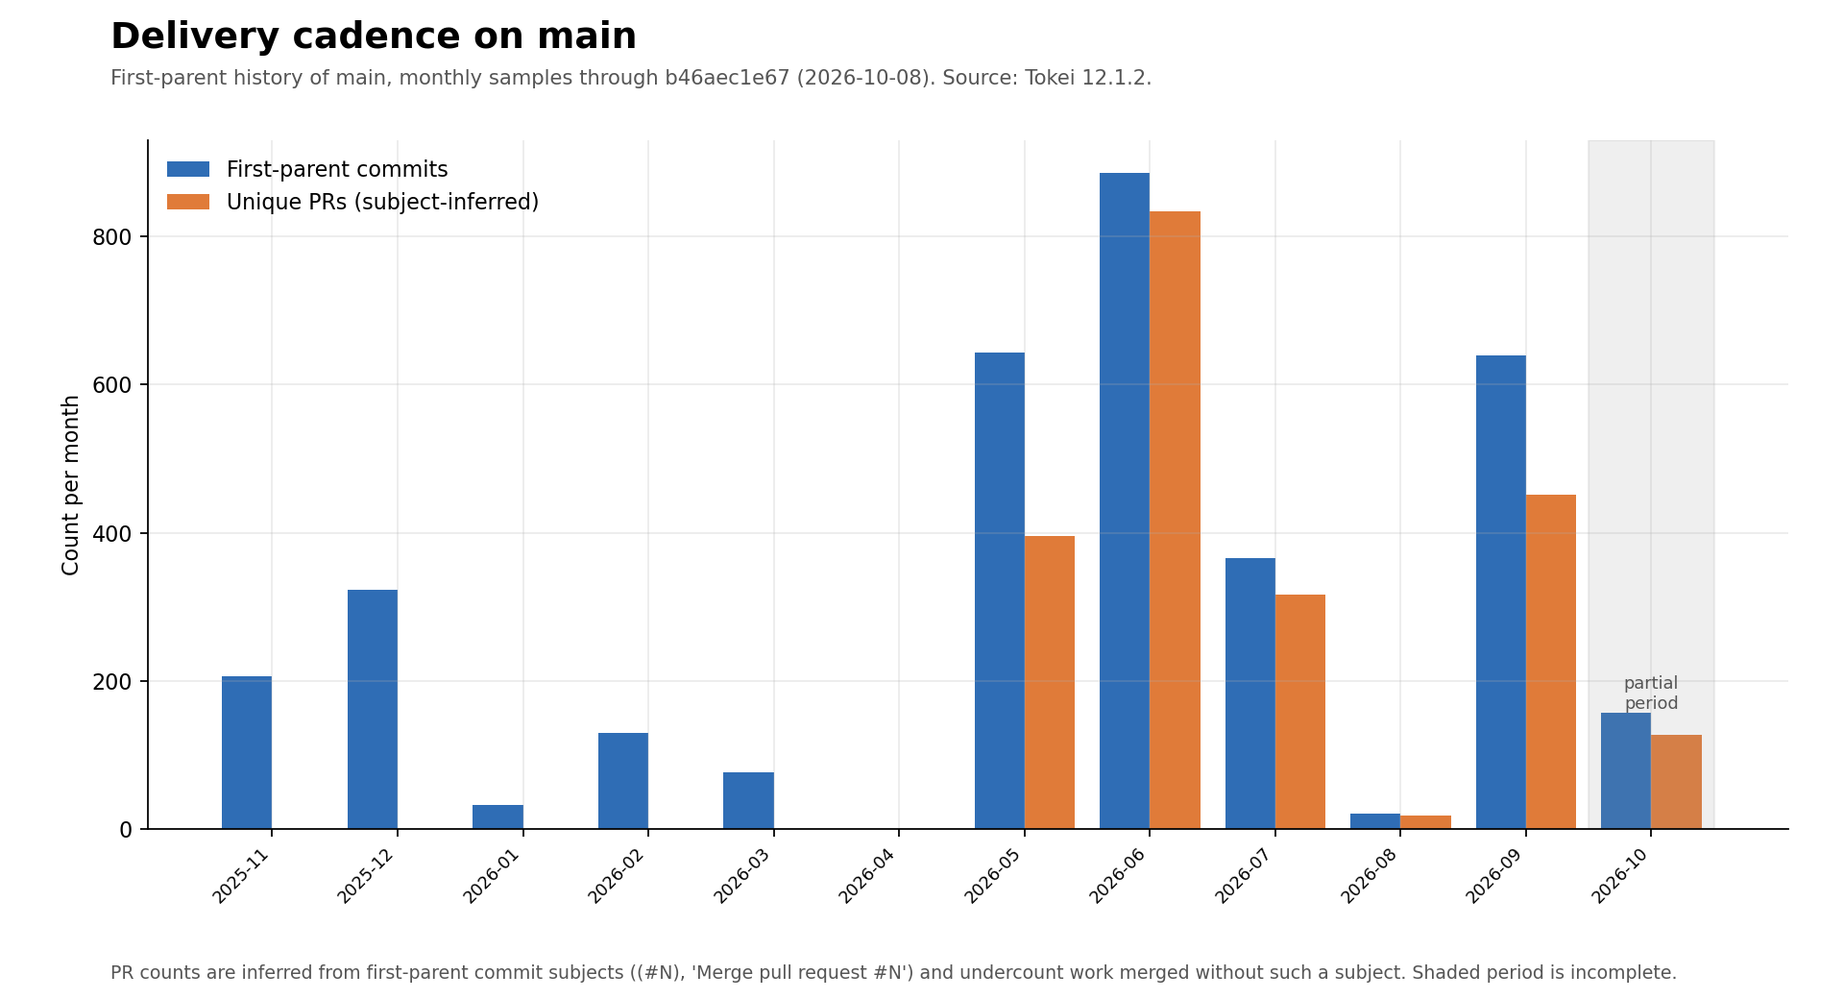
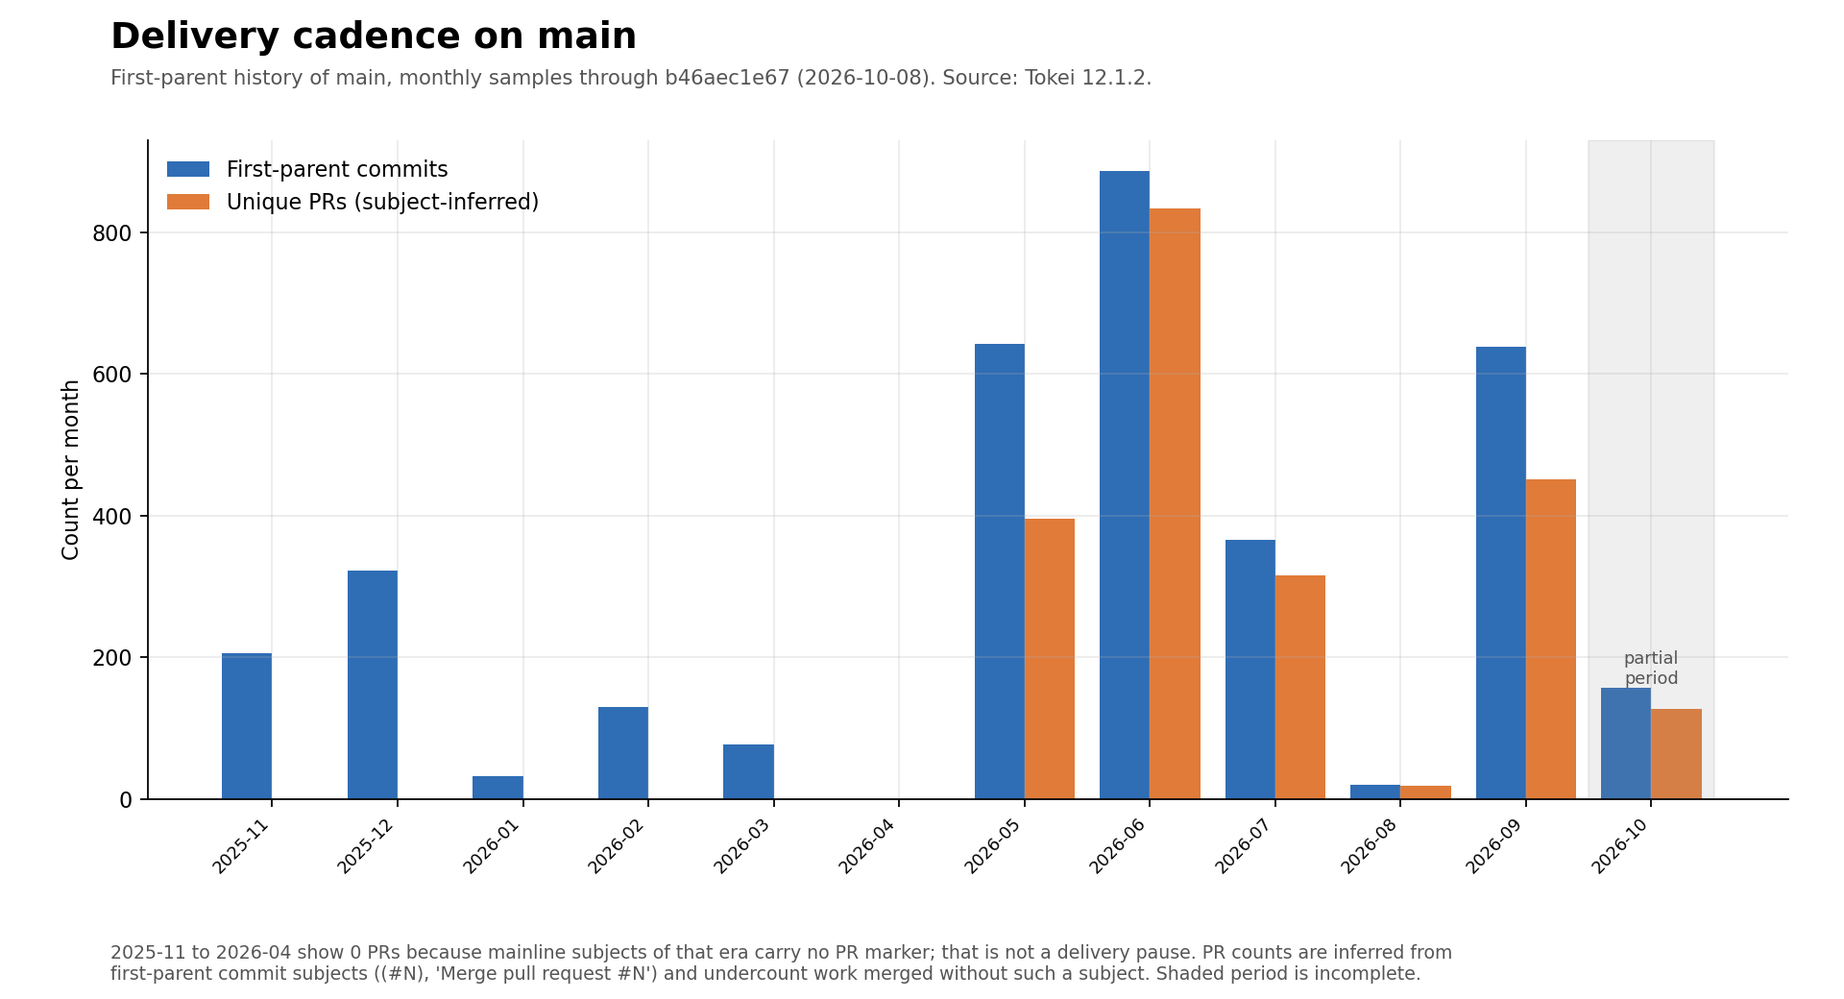
[AI:claude] fix(analytics): preserve calendar counts and chart exclusions (TASK-1605)
R1 delivery cadence enumerates the finite min..max calendar range so backdated
first-parent dates keep every commit and cannot hang. R2 generated analytics
exports classify as artifacts and the Rust chart plots artifact-excluded counts
(raw and per-bucket counts retained). R3 restore the supporting-chart legacy
data note and data-derived pre-PR-subject note; delivery title names the ref.

diff --git a/scripts/analyze_code_growth.py b/scripts/analyze_code_growth.py
@@ -66,6 +66,10 @@ ARTIFACT_DIRS = {"generated", "vendor", "vendored", "node_modules", "dist", "tar
 ARTIFACT_PREFIXES = ("aida-store/", ".aida-store/", "data/")
 ARTIFACT_SUFFIXES = (".min.js", ".min.css", ".map", ".db", ".sqlite", ".wasm", ".log", ".ttf", ".woff", ".woff2",
                      ".png", ".jpg", ".jpeg", ".gif", ".ico", ".lock")
+# This tool's own generated exports (exact paths); the authored README beside
+# them stays documentation.
+GENERATED_EXPORTS = {f"docs/analytics/code-growth/{n}" for n in (
+    "code-growth.json", "code-growth.csv", "code-growth-embedded.csv", "delivery-cadence.csv", "rust-test-markers.csv")}
 ARTIFACT_NAME_RE = re.compile(r"^(requirements.*|default_requirements|sample_project)\.ya?ml(\.backup)?$|^requirements\.yaml\.backup$")
 TEST_DIR_RE = re.compile(r"(^|/)(tests?|__tests__|benches|([^/]*-)?fixtures?)/")
 TEST_ROOT_PREFIXES = ("bench/", "scripts/", "ci/", ".github/")
@@ -93,7 +97,7 @@ COMPONENT_PREFIXES = [
 RULE_DOCS = [
     ("artifacts", "lockfiles; any path segment generated/vendor/vendored/node_modules/dist/target; "
                   "aida-store/, .aida-store/, data/; requirements*.yaml, default_requirements.yaml, sample_project.yaml; "
-                  "minified/map/db/wasm/log/font/image files"),
+                  "minified/map/db/wasm/log/font/image files; this tool's own generated exports under docs/analytics/code-growth/"),
     ("tests_automation", "any tests/test/__tests__/benches/*fixtures/ directory; root bench/, scripts/, ci/, .github/; "
                          ".gitlab-ci.yml, Makefile"),
     ("docs", ".aida/discipline/ (before the generic .aida/ packaging rule)"),
@@ -118,7 +122,7 @@ def classify(path: str) -> str:
     low = p.lower()
     # 1. artifacts
     if (name in LOCKFILES or any(seg in ARTIFACT_DIRS for seg in parts[:-1])
-            or p.startswith(ARTIFACT_PREFIXES) or ARTIFACT_NAME_RE.match(name)
+            or p.startswith(ARTIFACT_PREFIXES) or p in GENERATED_EXPORTS or ARTIFACT_NAME_RE.match(name)
             or low.endswith(ARTIFACT_SUFFIXES)):
         return "artifacts"
     # 2. directory-based tests/automation
@@ -387,7 +391,10 @@ def rust_markers_for_tree(tree: Path, files: list[dict]) -> dict:
             total[k] += v
             by_bucket[bucket][k] += v
     total["total"] = sum(total.values())
-    return {"total": total, "by_bucket": {b: dict(v, total=sum(v.values())) for b, v in sorted(by_bucket.items())}}
+    art = by_bucket.get(ARTIFACT_BUCKET, {"plain": 0, "async": 0, "rstest": 0})
+    charted = {k: total[k] - art[k] for k in ("plain", "async", "rstest")}
+    charted["total"] = sum(charted.values())
+    return {"total": total, "charted": charted, "by_bucket": {b: dict(v, total=sum(v.values())) for b, v in sorted(by_bucket.items())}}
 
 
 # --------------------------------------------------------------------------
@@ -422,18 +429,21 @@ def delivery_cadence(commits: list[dict], cadence: str) -> list[dict]:
         p["commits"] += 1
         p["prs"].update(parse_prs(c["subject"]))
     out = []
-    if periods:  # fill calendar gaps so idle periods render as zero, not as missing
-        first = commits[0]["when"]
-        label, end = period_of(first, cadence)
-        last_label = period_of(commits[-1]["when"], cadence)[0]
-        while True:
-            p = periods.get(label, {"commits": 0, "prs": set(), "end": end})
+    if periods:
+        # First-parent order is not chronological when commits are backdated, so
+        # enumerate the finite calendar range between the earliest and latest
+        # period actually seen, independent of walk order.  A period is partial
+        # when it ends after the date of the actual ref tip (date-as-of
+        # semantics: a backdated tip marks later-dated periods partial too).
+        first_end = min(p["end"] for p in periods.values())
+        last_end = max(p["end"] for p in periods.values())
+        end = first_end
+        while end <= last_end:
+            label, end = period_of(dt.datetime.combine(end, dt.time(12), tzinfo=dt.timezone.utc), cadence)
+            p = periods.get(label, {"commits": 0, "prs": set()})
             out.append({"period": label, "commits": p["commits"], "prs": len(p["prs"]),
                         "period_end": end.isoformat(), "partial": bool(tip_date and tip_date < end)})
-            if label == last_label:
-                break
-            nxt = dt.datetime.combine(end + dt.timedelta(days=1), dt.time(12), tzinfo=dt.timezone.utc)
-            label, end = period_of(nxt, cadence)
+            end += dt.timedelta(days=1)
     return out
 
 
@@ -498,6 +508,7 @@ def analyze(repo: str, ref: str, cadence: str, every: int, tokei: str, scratch: 
                 "code": sum(r["code"] for r in rows), "lines": sum(r["lines"] for r in rows)}
         sample_meta.append(meta)
         rust.append({"revision": s["sha"], "date": date, "period": s["period"], **markers["total"],
+                     **{f"charted_{k}": v for k, v in markers["charted"].items()},
                      "by_bucket": markers["by_bucket"]})
         progress(f"[{i}/{len(samples)}] {s['period']} {s['sha'][:10]} code={meta['code']}")
         if s["kind"] == "tip":
@@ -549,7 +560,7 @@ def write_outputs(result: dict, out_dir: Path, charts: bool = True) -> list[Path
     p = out_dir / "delivery-cadence.csv"
     write_csv(p, ["period", "period_end", "commits", "prs", "partial"], result["delivery"]); written.append(p)
     p = out_dir / "rust-test-markers.csv"
-    write_csv(p, ["revision", "date", "period", "plain", "async", "rstest", "total"], result["rust_tests"]); written.append(p)
+    write_csv(p, ["revision", "date", "period", "plain", "async", "rstest", "total", "charted_plain", "charted_async", "charted_rstest", "charted_total"], result["rust_tests"]); written.append(p)
     if charts:
         written.extend(render_charts(result, out_dir))
     return written
@@ -568,6 +579,17 @@ CADENCE_ADJ = {"day": "daily", "week": "weekly", "month": "monthly", "quarter": 
 PALETTE = ["#2f6db5", "#e07b39", "#3a9d8f", "#9a5fb4", "#d4a72c", "#c8483f", "#6b7b8c", "#8a9a3b"]
 
 
+def early_zero_pr_note(delivery: list[dict]) -> str:
+    """Chart note for a leading run of zero-PR periods (pre-PR-subject history)."""
+    run = 0
+    while run < len(delivery) and delivery[run]["prs"] == 0:
+        run += 1
+    if run == 0 or run == len(delivery):
+        return ""
+    return (f"{delivery[0]['period']} to {delivery[run - 1]['period']} show 0 PRs because mainline subjects of "
+            "that era carry no PR marker; that is not a delivery pause. ")
+
+
 def render_charts(result: dict, out_dir: Path) -> list[Path]:
     import matplotlib
     matplotlib.use("Agg")
@@ -583,16 +605,18 @@ def render_charts(result: dict, out_dir: Path) -> list[Path]:
     written = []
 
     def finish(fig, ax, title, note, name):
+        import textwrap
         fig.suptitle(title, x=0.06, ha="left", fontsize=17, fontweight="bold")
         fig.text(0.06, 0.915, subtitle, fontsize=9.5, color="#555555", ha="left")
-        fig.text(0.06, 0.02, note, fontsize=8.5, color="#555555", ha="left")
-        fig.subplots_adjust(left=0.08, right=0.97, top=0.86, bottom=0.17)
+        fig.text(0.06, 0.015, "\n".join(textwrap.wrap(note, 150)), fontsize=8.5, color="#555555", ha="left",
+                 va="bottom")
+        fig.subplots_adjust(left=0.08, right=0.97, top=0.86, bottom=0.2)
         path = out_dir / name
         fig.savefig(path, dpi=160)
         plt.close(fig)
         written.append(path)
 
-    def stacked(buckets, metric, ylabel, title, name):
+    def stacked(buckets, metric, ylabel, title, name, extra_note=""):
         dates, series = bucket_series(result, buckets, metric)
         fig, ax = plt.subplots(figsize=(12, 6.5))
         labels = [BUCKET_INFO[b]["label"] for b in buckets]
@@ -605,12 +629,13 @@ def render_charts(result: dict, out_dir: Path) -> list[Path]:
         ax.set_ylabel(ylabel)
         ax.yaxis.set_major_formatter(matplotlib.ticker.FuncFormatter(lambda v, _: f"{int(v):,}"))
         ax.legend(loc="upper left", frameon=False, fontsize=9, ncol=2)
-        finish(fig, ax, title, excl + " Latest total labelled.", name)
+        finish(fig, ax, title, excl + (extra_note and " " + extra_note) + " Latest total labelled.", name)
 
     stacked(PRODUCT_BUCKETS, "code", "Lines of code (Tokei, excluding comments and blanks)",
             "Production code growth by component", "production-growth.png")
     stacked(SUPPORT_BUCKETS, "lines", "Total lines (code + comments + blanks)",
-            "Supporting corpus growth", "supporting-growth.png")
+            "Supporting corpus growth", "supporting-growth.png",
+            extra_note="Legacy requirement data (aida-store/) moved off the code branch and is excluded as an artifact.")
 
     # delivery cadence
     d = result["delivery"]
@@ -625,22 +650,25 @@ def render_charts(result: dict, out_dir: Path) -> list[Path]:
     ax.set_xticks(xs); ax.set_xticklabels([r["period"] for r in d], rotation=45, ha="right", fontsize=8)
     ax.set_ylabel(f"Count per {result['cadence']}")
     ax.legend(loc="upper left", frameon=False)
-    finish(fig, ax, "Delivery cadence on main",
-           "PR counts are inferred from first-parent commit subjects ((#N), 'Merge pull request #N') and undercount "
+    early = early_zero_pr_note(d)
+    finish(fig, ax, f"Delivery cadence on {result['ref']}",
+           early + "PR counts are inferred from first-parent commit subjects ((#N), 'Merge pull request #N') and undercount "
            "work merged without such a subject. Shaded period is incomplete.", "delivery-cadence.png")
 
     # rust tests
     rt = result["rust_tests"]
     dates = [dt.date.fromisoformat(r["date"]) for r in rt]
     fig, ax = plt.subplots(figsize=(12, 6.5))
-    ax.stackplot(dates, [[r["plain"] for r in rt], [r["async"] for r in rt], [r["rstest"] for r in rt]],
+    ax.stackplot(dates, [[r["charted_plain"] for r in rt], [r["charted_async"] for r in rt],
+                         [r["charted_rstest"] for r in rt]],
                  labels=["#[test]", "async #[<path>::test]", "#[rstest]"], colors=PALETTE[:3], alpha=0.95)
-    ax.annotate(f"{rt[-1]['total']:,}", (dates[-1], rt[-1]["total"]), textcoords="offset points", xytext=(-4, 8),
+    ax.annotate(f"{rt[-1]['charted_total']:,}", (dates[-1], rt[-1]["charted_total"]), textcoords="offset points", xytext=(-4, 8),
                 ha="right", fontweight="bold")
-    ax.set_ylabel("Test attributes in Rust sources")
+    ax.set_ylabel("Test attributes in Rust sources (artifacts excluded)")
     ax.yaxis.set_major_formatter(matplotlib.ticker.FuncFormatter(lambda v, _: f"{int(v):,}"))
     ax.legend(loc="upper left", frameon=False)
     finish(fig, ax, "Rust test attribute growth",
+           "Excludes generated, vendored, and data artifacts (raw and per-bucket counts retained in CSV/JSON). "
            "Heuristic: counts line-leading #[test], #[<path>::test] and #[rstest] attributes outside // comments; "
            "parameterised #[case] rows are not multiplied.", "rust-test-growth.png")
     return written

diff --git a/tests/test_analyze_code_growth.py b/tests/test_analyze_code_growth.py
@@ -103,6 +103,14 @@ class ClassifyTest(unittest.TestCase):
             "./aida-tui/src/lib.rs": "tui",
         })
 
+    def test_generated_analytics_exports_are_artifacts_but_readme_is_docs(self):
+        base = "docs/analytics/code-growth/"
+        for n in ("code-growth.json", "code-growth.csv", "code-growth-embedded.csv", "delivery-cadence.csv",
+                  "rust-test-markers.csv", "production-growth.png"):
+            self.assertEqual(mod.classify(base + n), "artifacts", n)
+        self.assertEqual(mod.classify(base + "README.md"), "docs")
+        self.assertNotEqual(mod.classify("docs/analytics/other/code-growth.csv"), "artifacts")
+
     def test_every_rule_target_is_a_declared_bucket(self):
         for bucket, _ in mod.RULE_DOCS:
             self.assertTrue(bucket in mod.BUCKET_INFO or bucket == "<component>", bucket)
@@ -161,6 +169,23 @@ class ParsingTest(unittest.TestCase):
         d = mod.delivery_cadence(commits, "month")
         self.assertEqual([(r["period"], r["commits"], r["prs"], r["partial"]) for r in d],
                          [("2026-01", 2, 1, False), ("2026-02", 1, 1, True)])
+
+    def test_delivery_out_of_order_dates_keep_every_commit_and_terminate(self):
+        for order in ([(1, 5), (3, 5), (2, 5)], [(3, 5), (2, 5)], [(1, 5), (3, 6), (3, 7), (2, 5)]):
+            commits = fake_commits([utc(2026, m, d) for m, d in order])
+            for cadence in mod.CADENCES:
+                d = mod.delivery_cadence(commits, cadence)
+                self.assertEqual(sum(r["commits"] for r in d), len(commits), (order, cadence))
+                self.assertEqual(len({r["period"] for r in d}), len(d))
+        d = mod.delivery_cadence(fake_commits([utc(2026, 1, 5), utc(2026, 3, 5), utc(2026, 2, 5)]), "month")
+        self.assertEqual([(r["period"], r["commits"], r["partial"]) for r in d],
+                         [("2026-01", 1, False), ("2026-02", 1, True), ("2026-03", 1, True)])
+
+    def test_early_zero_pr_note(self):
+        d = [{"period": "2026-01", "prs": 0}, {"period": "2026-02", "prs": 0}, {"period": "2026-03", "prs": 4}]
+        self.assertIn("2026-01 to 2026-02 show 0 PRs", mod.early_zero_pr_note(d))
+        self.assertEqual(mod.early_zero_pr_note(d[2:]), "")
+        self.assertEqual(mod.early_zero_pr_note(d[:2]), "")
 
     def test_delivery_fills_idle_periods_with_zero(self):
         commits = fake_commits([utc(2026, 1, 3), utc(2026, 4, 2)])
@@ -328,6 +353,76 @@ class EndToEndTest(unittest.TestCase):
 
     def test_repo_is_untouched(self):
         self.assertEqual(self.git("status", "--porcelain").strip(), "")
+
+
+@unittest.skipUnless(TOKEI, "tokei binary not on PATH; skipping Tokei-backed tests")
+class BackdatedAndGeneratedTest(unittest.TestCase):
+    """R1/R2: non-chronological first-parent dates and generated-export exclusion."""
+
+    def build(self, tmp, dates):
+        repo = tmp / "repo"
+        repo.mkdir()
+        env = {**os.environ, "HOME": str(tmp / "home"), "AIDA_HOME": str(tmp / "home"),
+               "GIT_CONFIG_GLOBAL": os.devnull, "GIT_CONFIG_NOSYSTEM": "1"}
+        (tmp / "home").mkdir()
+        base = ["git", "-C", str(repo), "-c", "user.name=t", "-c", "user.email=t@example.com"]
+        subprocess.run([*base, "init", "-q", "-b", "main"], env=env, check=True)
+        for i, when in enumerate(dates):
+            files = {"aida-core/src/lib.rs": f"pub fn a{i}() {{}}\n",
+                     "aida-server/src/generated/api.rs": "#[test]\nfn gen() {}\n" * (i + 1),
+                     "docs/analytics/code-growth/code-growth.csv": "a,b\n" * (i + 1),
+                     "docs/analytics/code-growth/README.md": f"# R{i}\n"}
+            for rel, text in files.items():
+                p = repo / rel
+                p.parent.mkdir(parents=True, exist_ok=True)
+                p.write_text(text)
+            e = {**env, "GIT_AUTHOR_DATE": when, "GIT_COMMITTER_DATE": when}
+            subprocess.run([*base, "add", "-A"], env=e, check=True)
+            subprocess.run([*base, "commit", "-q", "-m", f"c{i} (#{i + 1})"], env=e, check=True, capture_output=True)
+        return repo
+
+    def test_both_orders_preserve_all_commits_for_all_cadences(self):
+        orders = {
+            "jan-mar-feb": ["2026-01-05T12:00:00+00:00", "2026-03-05T12:00:00+00:00", "2026-02-05T12:00:00+00:00"],
+            "mar-feb": ["2026-03-05T12:00:00+00:00", "2026-02-05T12:00:00+00:00"],
+        }
+        for name, dates in orders.items():
+            with tempfile.TemporaryDirectory(prefix="cg-order-") as t:
+                tmp = pathlib.Path(t)
+                repo = self.build(tmp, dates)
+                for cadence in mod.CADENCES:
+                    scratch = tmp / f"s-{cadence}"
+                    scratch.mkdir()
+                    r = mod.analyze(str(repo), "main", cadence, 1, TOKEI, scratch, progress=lambda m: None)
+                    self.assertEqual(sum(x["commits"] for x in r["delivery"]), len(dates), (name, cadence))
+                    self.assertEqual(sum(x["prs"] for x in r["delivery"]) >= 1, True)
+                    self.assertEqual(r["samples"][-1]["revision"],
+                                     subprocess.run(["git", "-C", str(repo), "rev-parse", "main"], capture_output=True,
+                                                    text=True, env={**os.environ, "GIT_CONFIG_GLOBAL": os.devnull}).stdout.strip())
+                    self.assertTrue(r["reconciliation"]["ok"])
+
+    def test_generated_exports_and_server_markers_are_not_charted(self):
+        with tempfile.TemporaryDirectory(prefix="cg-gen-") as t:
+            tmp = pathlib.Path(t)
+            repo = self.build(tmp, ["2026-01-05T12:00:00+00:00", "2026-02-05T12:00:00+00:00"])
+            scratch = tmp / "s"
+            scratch.mkdir()
+            r = mod.analyze(str(repo), "main", "month", 1, TOKEI, scratch, progress=lambda m: None)
+            tip = r["tip"]
+            by = {(x["bucket"], x["language"]): x for x in r["rows"] if x["revision"] == tip}
+            self.assertEqual({b for b, _ in by if b == "docs"}, {"docs"})  # README only
+            self.assertEqual(by[("docs", "Markdown")]["files"], 1)
+            self.assertFalse([k for k in by if k[0] == "docs" and k[1] != "Markdown"])
+            last = r["rust_tests"][-1]
+            self.assertEqual(last["total"], 2)            # raw: both generated #[test] markers kept as evidence
+            self.assertEqual(last["by_bucket"]["artifacts"]["total"], 2)
+            self.assertEqual(last["charted_total"], 0)    # but not plotted
+            out = tmp / "out"
+            mod.write_outputs(r, out, charts=True)
+            with open(out / "rust-test-markers.csv") as fh:
+                row = list(csv.DictReader(fh))[-1]
+            self.assertEqual((row["total"], row["charted_total"]), ("2", "0"))
+            self.assertEqual(r["reconciliation"]["ok"], True)
 
 
 if __name__ == "__main__":

diff --git a/docs/analytics/code-growth/README.md b/docs/analytics/code-growth/README.md
@@ -44,7 +44,7 @@ tip reconciliation fails (`--allow-mismatch` overrides).
 
 | Order | Bucket | Rule |
 |---|---|---|
-| 1 | Generated, vendored & data artifacts | lockfiles; any `generated/`, `vendor/`, `vendored/`, `node_modules/`, `dist/`, `target/` segment; `aida-store/`, `.aida-store/`, `data/`; `requirements*.yaml`, `default_requirements.yaml`, `sample_project.yaml`; minified/map/db/wasm/log/font/image files |
+| 1 | Generated, vendored & data artifacts | lockfiles; any `generated/`, `vendor/`, `vendored/`, `node_modules/`, `dist/`, `target/` segment; `aida-store/`, `.aida-store/`, `data/`; `requirements*.yaml`, `default_requirements.yaml`, `sample_project.yaml`; minified/map/db/wasm/log/font/image files; this tool's own generated exports in `docs/analytics/code-growth/` (JSON/CSV/PNG; the authored README stays Documentation) |
 | 2 | Tests & automation | any `tests/`, `test/`, `__tests__/`, `benches/`, `*fixtures/` directory; root `bench/`, `scripts/`, `ci/`, `.github/`; `.gitlab-ci.yml`, `Makefile` |
 | 3 | Documentation | `.aida/discipline/` |
 | 4 | Packaging & integration | `aida-core/templates/`, `templates/`, `.claude/`, `.claude-plugin/`, `.codex/`, `.antigravity/`, `.gemini/`, `.aida/`, `plugins/`, `docker/`, `.cargo/` |
@@ -74,11 +74,11 @@ table is `classify()` in the script and is echoed in the JSON `rules` array.
 | `code-growth.json` | the same rows plus `samples`, `buckets`, `rules`, `delivery`, `rust_tests`, `reconciliation`, Tokei version/args |
 | `code-growth-embedded.csv` | embedded-language blobs (see below), never summed into the CSV totals |
 | `delivery-cadence.csv` | per-period first-parent commits and unique subject-inferred PRs |
-| `rust-test-markers.csv` | per-sample Rust test attribute counts |
+| `rust-test-markers.csv` | per-sample Rust test attribute counts: raw `plain/async/rstest/total` plus `charted_*` (artifact bucket excluded); per-bucket evidence is in the JSON |
 | `production-growth.png` | stacked production code by component (Tokei `code`) |
 | `supporting-growth.png` | stacked tests/docs/packaging/uncategorized (`lines`, because Tokei counts Markdown prose as comments, so `code` would hide documentation) |
 | `delivery-cadence.png` | commits and PRs per period, incomplete period shaded |
-| `rust-test-growth.png` | Rust test attributes per sample |
+| `rust-test-growth.png` | Rust test attributes per sample, artifact-excluded (`charted_*`) |
 
 ## Assumptions and exclusions
 
@@ -95,7 +95,11 @@ table is `classify()` in the script and is echoed in the JSON `rules` array.
   separately in `code-growth-embedded.csv` and never added to totals.
 - **Generated, vendored & data artifacts** are kept in the CSV/JSON and in the
   reconciliation, but excluded from all presentation charts; each chart
-  states this in its footer.
+  states this in its footer. Generated server code with `#[test]` markers, for
+  example, is counted in the raw/per-bucket Rust evidence but not plotted. The
+  supporting chart additionally notes that legacy requirement data
+  (`aida-store/`) moved off the code branch, which explains why that data is
+  not part of the supporting corpus.
 - Inline `#[cfg(test)]` modules inside production files stay in their
   component bucket; only separate test files and directories count as tests.
   The Rust test chart covers that gap from the other side.
@@ -108,8 +112,13 @@ Commit counts are exact first-parent commits. PR counts are **inferred from
 commit subjects** (`(#N)` suffix, `Merge pull request #N`, `(!N)`,
 `See merge request ...!N`), de-duplicated per period. Work merged without such
 a subject, and early history before PR-style subjects were used, is
-undercounted (the first months show zero PRs). The period containing the tip
-is marked partial when the tip falls before the period's last day.
+undercounted (the first months show zero PRs; the chart footer says so
+explicitly, derived from the data, and it is not a delivery pause). Periods are enumerated
+over the finite calendar range between the earliest and latest period seen,
+so backdated or out-of-order first-parent dates never drop commits (idle
+periods show zero). A period is marked partial when it ends after the date of
+the actual ref tip (date-as-of semantics; a backdated tip also marks
+later-dated periods partial). The chart title names the selected ref.
 
 ## Rust test markers (heuristic)
 
